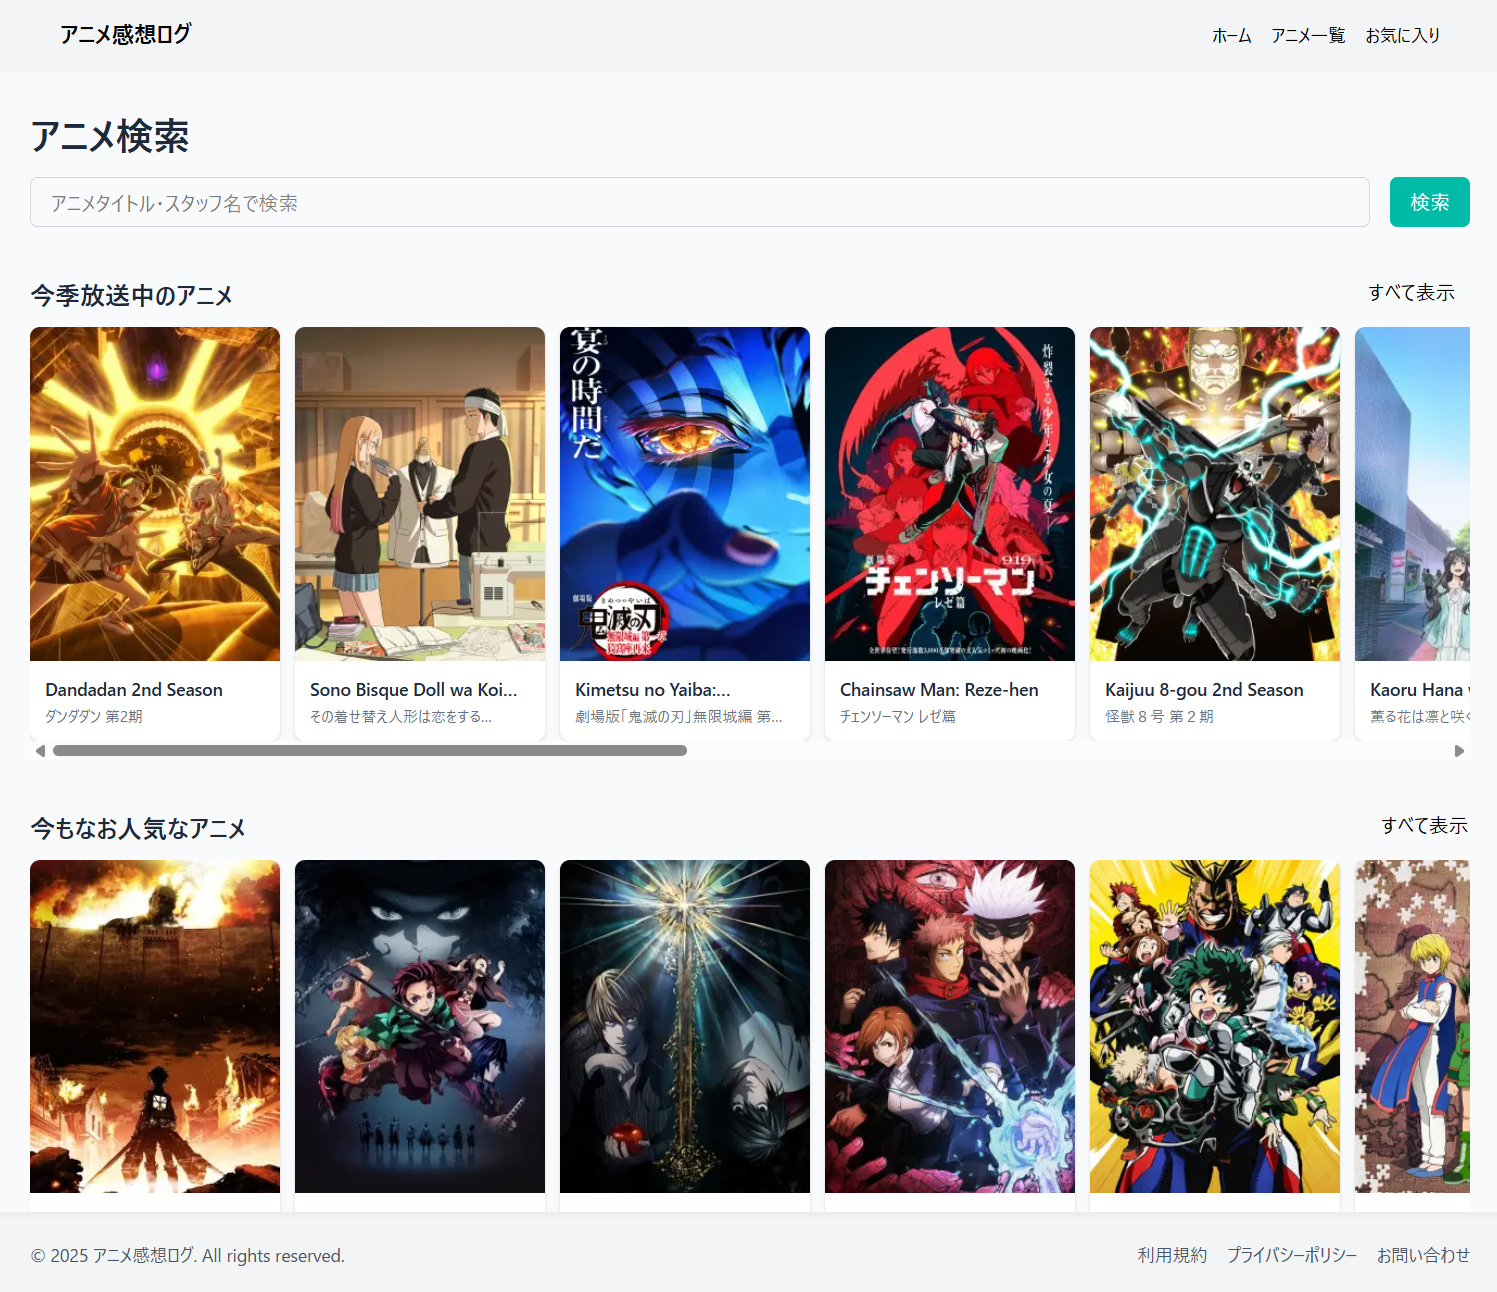
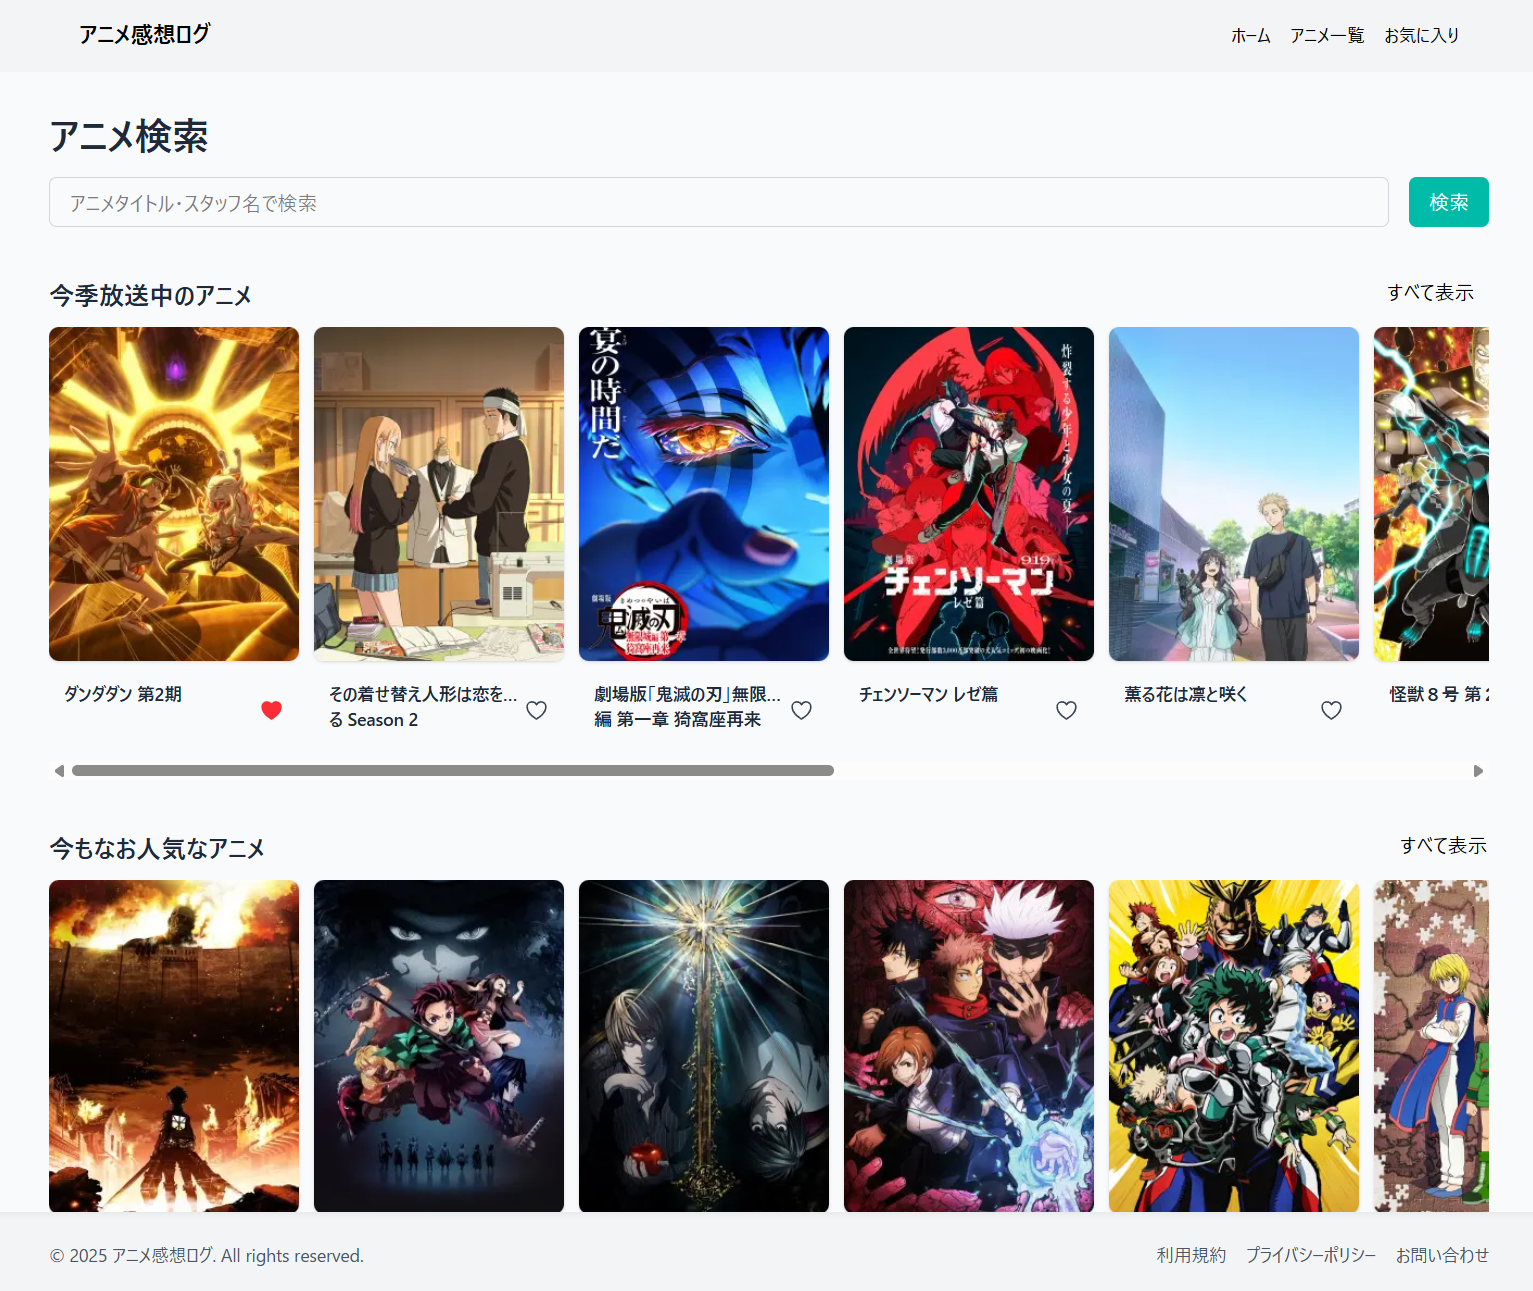
add: ホーム修正

diff --git a/src/app/anime/[id]/page.tsx b/src/app/anime/[id]/page.tsx
@@ -50,9 +50,12 @@ async function getAnimeDetail(id: string) {
   return json.data?.Media;
 }
 
-async function getEpisodesFromAnnict(title: string): Promise<Episode[]> {
+async function getAnnictData(title: string): Promise<{
+  episodes: Episode[];
+  synopsis: string | null;
+}> {
   const accessToken = process.env.ANNICT_ACCESS_TOKEN;
-  if (!accessToken) return [];
+  if (!accessToken) return { episodes: [], synopsis: null };
 
   const workRes = await fetch(
     `https://api.annict.com/v1/works?filter_title=${encodeURIComponent(
@@ -61,14 +64,17 @@ async function getEpisodesFromAnnict(title: string): Promise<Episode[]> {
   );
   const workData = await workRes.json();
   const work = workData.works?.[0];
-  if (!work) return [];
+  if (!work) return { episodes: [], synopsis: null };
 
   const epRes = await fetch(
     `https://api.annict.com/v1/episodes?filter_work_id=${work.id}&sort_id=asc&access_token=${accessToken}`
   );
   const epData = await epRes.json();
 
-  return epData.episodes || [];
+  return {
+    episodes: epData.episodes || [],
+    synopsis: work.synopsis || null,
+  };
 }
 
 export default async function AnimeDetailPage({
@@ -79,11 +85,16 @@ export default async function AnimeDetailPage({
   const anime = await getAnimeDetail(params.id);
   if (!anime) return notFound();
 
-  const episodes = await getEpisodesFromAnnict(anime.title.native);
+  const annictData = await getAnnictData(anime.title.native);
+  const description =
+    annictData.synopsis || anime.description || "説明が見つかりません";
+  const episodes = annictData.episodes;
+  console.log("🎯 anime.title.native:", anime.title.native);
+  console.log("📘 annict synopsis:", annictData.synopsis);
 
   return (
     <div className="max-w-4xl mx-auto p-6 space-y-8">
-      {/* アニメ情報 */}
+      {/* アニメの詳細情報 */}
       <div className="flex flex-col md:flex-row gap-6">
         <Image
           src={anime.coverImage?.large}
@@ -93,17 +104,16 @@ export default async function AnimeDetailPage({
           className="rounded object-cover"
         />
         <div className="space-y-4">
-          <h1 className="text-2xl font-bold">{anime.title?.romaji}</h1>
           <p className="text-gray-600">{anime.title?.native}</p>
           <p className="text-sm text-gray-700 whitespace-pre-line">
-            {anime.description}
+            {description}
           </p>
           <p className="text-sm">公開年: {anime.startDate?.year}</p>
           <p className="text-sm">話数: {anime.episodes ?? "不明"}</p>
         </div>
       </div>
 
-      {/* エピソード一覧 + 感想モーダル */}
+      {/* エピソード一覧と感想モーダル */}
       <EpisodeList episodes={episodes} animeId={anime.id} />
     </div>
   );

diff --git a/src/app/anime/page.tsx b/src/app/anime/page.tsx
@@ -3,6 +3,7 @@
 import { useEffect, useState } from "react";
 import Link from "next/link";
 import Image from "next/image";
+import FavoriteButton from "@/components/FavoriteButton";
 
 type Anime = {
   id: number;
@@ -97,15 +98,13 @@ export default function Anime() {
                   sizes="200px"
                 />
               </div>
-              <div className="p-3 space-y-1">
-                <h3 className="font-semibold text-sm text-gray-800 line-clamp-1">
-                  {anime.title.romaji}
-                </h3>
-                <p className="text-xs text-gray-500 line-clamp-1">
-                  {anime.title.native}
-                </p>
-              </div>
             </Link>
+            <div className="flex justify-between p-3 space-y-1 h-20">
+              <h3 className="font-semibold text-sm text-gray-800 line-clamp-1 pt-1">
+                {anime.title.native}
+              </h3>
+              <FavoriteButton />
+            </div>
           </li>
         ))}
       </ul>

diff --git a/src/components/FavoriteButton.tsx b/src/components/FavoriteButton.tsx
@@ -1,0 +1,26 @@
+import { useState } from "react";
+import { HeartIcon as OutlineHeart } from "@heroicons/react/24/outline";
+import { HeartIcon as SolidHeart } from "@heroicons/react/24/solid";
+
+export default function FavoriteButton() {
+  const [favorited, setFavorited] = useState(false);
+
+  const handleClick = (e: React.MouseEvent<HTMLButtonElement>) => {
+    e.stopPropagation(); // 🔴 これで親への伝播を止める
+    setFavorited(!favorited);
+  };
+
+  return (
+    <button
+      onClick={handleClick}
+      //   className="p-1 bg-white bg-opacity-80 rounded-full shadow-md hover:bg-opacity-100 transition"
+      aria-label="お気に入り"
+    >
+      {favorited ? (
+        <SolidHeart className="w-5 h-5 text-red-500" />
+      ) : (
+        <OutlineHeart className="w-5 h-5 text-gray-700" />
+      )}
+    </button>
+  );
+}
